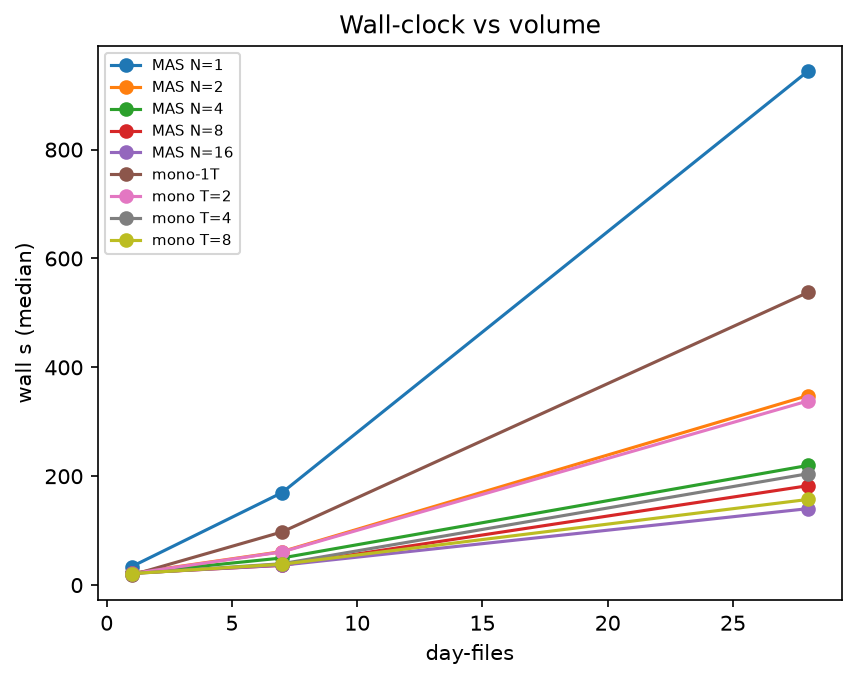
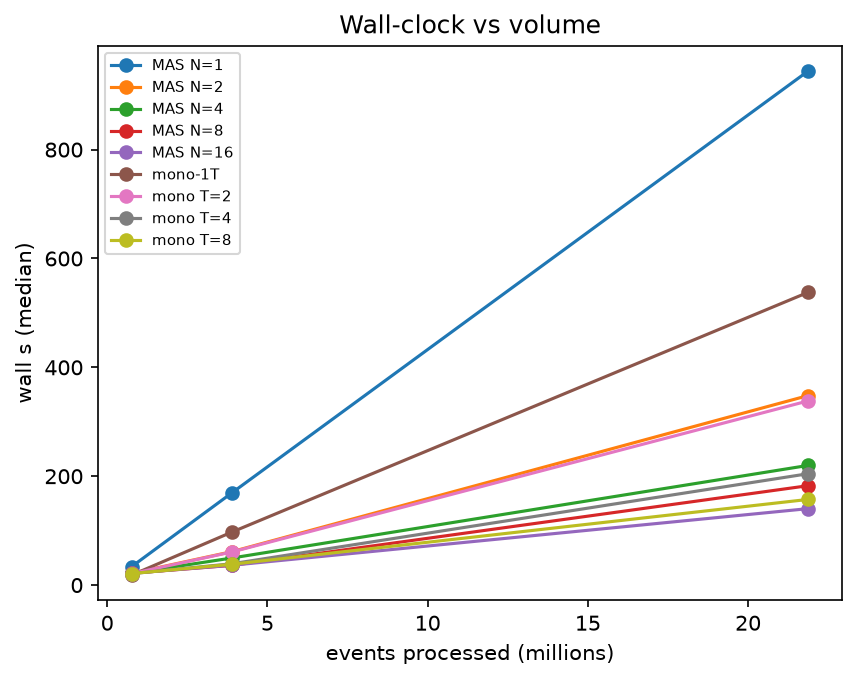
fix: bench harness refuses clobbers, gates e2e, plots honest axes
- the documented partial resweep pointed straight at the committed
  81-row results.csv and truncated it with ">"; both harnesses now
  refuse an existing output without --force
- the cuda sweep computed the oracle for every volume and only printed
  it: e2e rows had no correctness gate at all. Store-backed runs now
  die on an oracle mismatch like every run_bench.sh run always has
- wall_vs_volume plotted against day-file count, but day-files differ
  ~12x in events -- the visible super-linear kink was pure artifact
  (per event the pipeline is flat at ~24-25 us). X is events now
- cuda_throughput drew bars on a log axis (a 44x ratio read as ~7x)
  and mixed clean-mode with e2e-mode under one title; linear, one mode
- provenance (#-comment lines) on the headline CSV; repeat-1 rows
  labelled note=verify; results.md corrects the cold-cache attribution
  the stage data contradicts, states the warm-cache and medians-only
  conventions, and stops claiming a contaminated file that never
  existed in this repository

diff --git a/bench/run_bench_cuda.py b/bench/run_bench_cuda.py
@@ -72,9 +72,14 @@ def die(msg, fix=None):
 
 
 def find_binary(name):
-    """MSVC multi-config puts binaries in build/Release; make both work."""
+    """MSVC multi-config puts binaries in build/Release; make both work.
+
+    Only the documented build directory is searched: a stale side build
+    (build-plan once held an unoptimized bench_cpu, CMAKE_BUILD_TYPE empty)
+    must never be silently benchmarked in place of the real one.
+    """
     exe = name + (".exe" if os.name == "nt" else "")
-    for d in ("build", "build/Release", "build-plan", "build-plan/Release"):
+    for d in ("build", "build/Release"):
         p = os.path.join(ROOT, d, exe)
         if os.path.isfile(p):
             return p
@@ -209,7 +214,17 @@ def main():
     ap = argparse.ArgumentParser()
     ap.add_argument("--data", required=True, help="month zip or extracted directory")
     ap.add_argument("--quick", action="store_true", help="1-day volume only")
+    ap.add_argument("--force", action="store_true",
+                    help="overwrite existing results CSVs (they are refused otherwise)")
     args = ap.parse_args()
+
+    # A --quick run writes the same two files as the full sweep; without this
+    # guard the documented smoke-test truncated the committed full-sweep CSVs.
+    if not args.force:
+        clobbered = [p for p in (RESULTS, STAGES) if os.path.exists(p)]
+        if clobbered:
+            die("refusing to overwrite: " + ", ".join(clobbered),
+                "pass --force to overwrite, or move the files aside first")
 
     files = extract_pool(args.data)
     volumes = (1,) if args.quick else tuple(v for v in VOLUMES if v <= len(files))
@@ -301,7 +316,12 @@ def main():
                     # materialization and every cudaMalloc/cudaHostAlloc, and
                     # at 28 day-files the hidden part cost about as much as the
                     # reported one.
-                    emit(w, "cuda", "clean", 1, v, rep, clean_s, wall, events, rss, cpu_s)
+                    # note="verify": repeat 1 runs the full CPU differential
+                    # inside the timed wall clock, a 7x spread in one column
+                    # of one configuration -- a row that must be identifiable
+                    # as such in the CSV, not discovered by counting repeats.
+                    emit(w, "cuda", "clean", 1, v, rep, clean_s, wall, events,
+                         rss, cpu_s, note="verify" if verify else "")
                     m = _STAGE.search(blob)
                     if m:
                         kv = dict(p.split("=") for p in m.group(1).split())
@@ -325,6 +345,20 @@ def main():
                         out_db = os.path.join(ROOT, "bench_tmp.duckdb")
                         _, wall, cpu_s, rss, events, clean_s, merge_s = run(
                             [mono] + flag + [out_db, "MCC", str(th)] + sub)
+                        # The oracle is computed for every volume and was only
+                        # ever printed; run_bench.sh gates every run and this
+                        # sweep claimed to but did not. Store-backed runs must
+                        # land on the store row count; --no-store runs emit
+                        # raw events (more than the store keeps on multi-day
+                        # volumes) and are covered by the cross-arch `seen`
+                        # check above instead.
+                        if mode == "e2e" and events != oracle[v]:
+                            die(f"{arch} [e2e] at {v} day-file(s), repeat "
+                                f"{rep}: {events} events, oracle says "
+                                f"{oracle[v]}",
+                                "a fast implementation that is wrong must not "
+                                "produce a number; investigate before "
+                                "re-running the sweep")
                         emit(w, arch, mode, th, v, rep, clean_s, wall, events,
                              rss, cpu_s, merge_s=merge_s)
                         for stale in [out_db] + [

diff --git a/python/bench_plots.py b/python/bench_plots.py
@@ -13,7 +13,9 @@ GROUP = ["arch", "n_workers", "threads", "files"]
 
 
 def load(csv_path) -> pd.DataFrame:
-    return pd.read_csv(csv_path)
+    # comment="#": the harness writes provenance lines (#-prefixed) above the
+    # header, same convention as results_cuda.csv.
+    return pd.read_csv(csv_path, comment="#")
 
 
 def medians(df: pd.DataFrame) -> pd.DataFrame:
@@ -95,14 +97,21 @@ def render(csv_path, out_dir) -> None:
     a2.set_xlabel("parallelism"); a2.set_ylabel("efficiency E=S/N"); a2.legend()
     fig.savefig(out / "speedup_efficiency.png", dpi=150, bbox_inches="tight")
 
-    # 3) wall-clock vs volume per arch/parallelism
+    # 3) wall-clock vs volume per arch/parallelism.
+    # X is EVENTS, not day-files: day-files differ ~12x in events (day 05 has
+    # 89,144; day 10 has 1,128,117 -- the first 7 files hold 17.8% of the
+    # month, not 25%), so a day-file axis showed a super-linear kink that was
+    # pure artifact: per event the pipeline is flat (~24-25 us/event at every
+    # volume). In a presentation that kink read as "the system degrades with
+    # volume".
     fig, ax = plt.subplots()
     for (arch, n, t), sub in med.groupby(["arch", "n_workers", "threads"]):
         label = {"mas": f"MAS N={n}", "mono-MT": f"mono T={t}",
                  "mono-1T": "mono-1T"}[arch]
-        sub = sub.sort_values("files")
-        ax.plot(sub.files, sub.total_s, marker="o", label=label)
-    ax.set_xlabel("day-files"); ax.set_ylabel("wall s (median)")
+        sub = sub.sort_values("events")
+        ax.plot(sub.events / 1e6, sub.total_s, marker="o", label=label)
+    ax.set_xlabel("events processed (millions)")
+    ax.set_ylabel("wall s (median)")
     ax.set_title("Wall-clock vs volume"); ax.legend(fontsize=7)
     fig.savefig(out / "wall_vs_volume.png", dpi=150, bbox_inches="tight")
 
@@ -154,13 +163,20 @@ def render_cuda(results_csv, stages_csv, out_dir):
     med = (df.groupby(["arch", "mode", "files"])["clean_s"]
              .median().reset_index())
 
-    one = med[med["files"] == med["files"].min()]
+    # Clean mode only, on a LINEAR axis: bar length on a log axis encodes
+    # nothing (a 44x ratio read as ~7x), and mixing clean-mode with e2e-mode
+    # bars put mono-1T on the chart twice at two different numbers under one
+    # title.
+    one = med[(med["files"] == med["files"].min()) & (med["mode"] == "clean")]
+    if one.empty:      # older CSVs without a clean-mode row
+        one = med[med["files"] == med["files"].min()]
     fig, ax = plt.subplots(figsize=(9, 5))
     labels = [f"{a}\n[{m}]" for a, m in zip(one["arch"], one["mode"])]
-    ax.bar(labels, one["clean_s"])
-    ax.set_yscale("log")
-    ax.set_ylabel("clean time, s (log)")
-    ax.set_title(f"Cleaning one day-file ({int(one['files'].iloc[0])} file)")
+    bars = ax.bar(labels, one["clean_s"])
+    ax.bar_label(bars, fmt="%.2f s", fontsize=8)
+    ax.set_ylabel("clean time, s")
+    ax.set_title(f"Cleaning one day-file, clean mode "
+                 f"({int(one['files'].iloc[0])} file)")
     fig.tight_layout()
     fig.savefig(os.path.join(out_dir, "cuda_throughput.png"), dpi=150)
     plt.close(fig)

diff --git a/docs/bench/results.md b/docs/bench/results.md
@@ -185,8 +185,12 @@ cheaper vehicle at like-for-like N on this box.
   set-based merge. They were re-run through the same harness with the restored
   binaries (`run_bench.sh --only mas --volumes "1 7"`, added for this purpose)
   and spliced in. The monolith block finished before any rebuild and the MAS
-  28-day block ran after the binaries were restored; neither was affected. The
-  superseded file is kept as `bench/results.csv.contaminated`.
+  28-day block ran after the binaries were restored; neither was affected.
+  **The pre-splice file was not retained.** An earlier revision of this note
+  claimed it was kept as `bench/results.csv.contaminated`; no such file ever
+  existed in this repository, so the 30 spliced MAS rows cannot be checked
+  against what they replaced — unlike the two withdrawals below, whose
+  contaminated CSVs are committed and recompute.
 
 ### merge_all: measured end to end (2026-08-11, branch `perf/merge-set-based`)
 
@@ -298,9 +302,14 @@ spread, because n=3 on a laptop does not support three significant figures
 gone — and the estimate that machinery was built on measured true: "~75 s per
 28-day repeat" came out 74.6 s median.)
 
-Repeat 1 is still the caveat in miniature: its `clean_s` reads 8.34 s (cold
-file cache) and its *wall* reads 58.9 s, because `--verify` runs the full CPU
-differential in the same process on the first repeat. The median absorbs
+Repeat 1 is still the caveat in miniature: its `clean_s` reads 8.34 s and its
+*wall* reads 58.9 s, because `--verify` runs the full CPU differential in the
+same process on the first repeat. The 8.34 s is **not** (only) a cold file
+cache: the stage CSV shows the inflation on pure device work that touches no
+files — `h2d_s` 0.639 vs 0.154, `index_s` 0.375 vs 0.049, `compact_s` 0.304
+vs 0.027 (4–11×) — so GPU clock ramp-up, first-touch of the pinned buffer,
+and context warm-up are the plausible causes. Either way the published
+[6.33–8.34] interval is one cold run and two warm ones. The median absorbs
 both; the spread is why the interval is published. The CUDA context and
 allocations sit outside `clean_s` and inside the wall clock, where spec §6.1
 puts them: total 8.43 s median against 6.43 s clean.
@@ -374,6 +383,14 @@ One `mas_monolith` invocation per backend over the same 28 day-files of
 February 2026, `machine_id` `MCC`, one thread. Both stores hold **21,872,663
 events**, raw equal to distinct.
 
+Two conventions to read every number above through: (1) all repeats after a
+sweep's first run are **warm-cache** numbers — nothing here measures a cold
+first read except where a repeat-1 caveat says so; (2) the committed plots
+draw **medians only**, so the spreads this document works to publish (the
+N=16 merge alone spreads 9.8%) are visible in the tables and CSVs, not in any
+figure. Ratios quoted to three significant figures (3.42×, 3.83×) inherit the
+spread of both their operands.
+
 Every figure has an artifact in `bench/parquet-comparison/`:
 `write_single.out` and `write_single_duckdbfirst.out` (the two orderings),
 `parity.out`, `decompose_final.out` (median of 7), `calibrate.out`,
@@ -398,8 +415,14 @@ moved the ratio, but one row should not be sourced from two runs.
 
 Run in both orders because this volume slows DuckDB's larger sequential writes
 when free space runs low, and each backend's store eats the space the next one
-sees. **2.79x is the ordering that does not flatter Parquet, and the one to
-quote**; the 4% spread between the orderings is the size of that effect. It is
+sees. One honesty note the artifacts force: the two orderings are also **two
+builds and two days** (`write_single.out` 2026-08-13 vs
+`write_single_duckdbfirst.out` 2026-08-14, different summary line, an extra
+`metrics:` line, and the later file carries `write_sweep.sh`'s `# order:` echo
+the earlier one predates), so the 4% spread bundles ordering with whatever
+else changed between those runs — it is an upper bound on the ordering
+effect, not a measurement of it alone. **2.79x is the ordering that does not
+flatter Parquet, and the one to quote**. It is
 *not* "the counterbalanced figure", as this section used to call it — a
 counterbalanced estimate averages the orderings (~2.85x); 2.79x is deliberately
 the conservative one instead.

diff --git a/bench/README.md b/bench/README.md
@@ -20,8 +20,13 @@ pip install -r bench/requirements-bench.txt
 python bench/run_bench_cuda.py --data telemetry_MCC777eda3db57348ef8a3113a642ae74db_2026-02.zip
 ```
 
-`--config Release` is required on Windows (MSVC is multi-config) and harmless
-elsewhere. Add `--quick` to run the 1-day volume only.
+`--config Release` is what selects the optimized build on Windows (MSVC is
+multi-config). On macOS and Linux it is a **no-op** — single-config generators
+take the configure-time `CMAKE_BUILD_TYPE`, which the project now defaults to
+Release when unset, so the recipe above is optimized everywhere. If you set
+`CMAKE_BUILD_TYPE` yourself, anything but Release produces benchmark numbers
+that are not comparable to the committed ones. Add `--quick` to run the 1-day
+volume only (it refuses to overwrite existing results CSVs without `--force`).
 
 Outputs `bench/results_cuda.csv` and `bench/results_cuda_stages.csv`. Paste both
 back.
